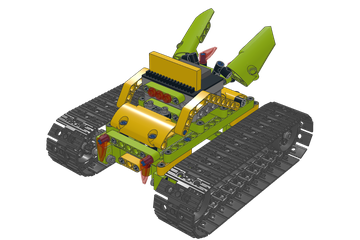
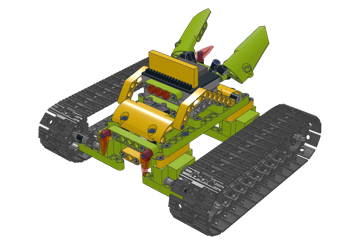
The geared tank redrawn so it can be built
The Geekservo's lugs have one pin hole each, across the servo. The custom
part had two more along the axis, drawn from the Kittenbot drawing's screw
holes, and the first geared tank ran its axle through one of them; the
user's servo showed the hole is not there. The same design also put the
16-tooth gears inside the track: the Building:bit links are 5 studs wide.

Now a 7-beam per side under the car's ends holds a pin with pin hole in
its outer hole; its ring is the bearing of a 7L axle with the 8-tooth
gear, and the sprocket sits past the ring, so the track starts outboard
of the gears. Same 31.6 LDU gear spacing. 19.6 cm wide over the tracks.
31 steps, 231 parts. The servo part loses the phantom holes (every
model's Studio zip changes); servos() loses its unused option.

Claude-Session: https://claude.ai/code/session_011hvyuWNUuaEFsj45paVWBn

Changed region(s): [[0.0917, 0.0292, 0.9167, 1.0]]

diff --git a/models/wukong_tank_4_motors_geared.py b/models/wukong_tank_4_motors_geared.py
@@ -1,79 +1,89 @@
 """Wukong tank with four servos, geared 2:1: our design, the four-servo Wukong tank
 (wukong_tank_4_motors.py: the Wukong mecanum racer of the ElecFreaks Wonder Rugged Kit on tracks
 from the Building:bit kit) with each servo geared up 2:1. The racer's body, servos and underside
-stay as its booklet builds them (steps 1-24), but for the outer lugs' lower pins and the two
-9-beams under the car's ends: the lug's lower hole crosses its vertical one, so the axle needs that
-pin's place (the servos still hang on the rails' end pins and the inner lugs' pins). A 16-tooth gear on each servo's output turns an
-8-tooth gear on a 6L axle that runs free in the lower round hole of the servo's outer lug (a half
-bush inside the lug and a bush outside hold it), and the sprocket sits on that axle: the tracks
-run twice as fast as the servos turn, with half the pull. The hole is 30 LDU along and 10 below
-the output, so the gears' axles are sqrt(30^2 + 10^2) = 31.6 LDU apart, 1.6 LDU (0.65 mm) more
-than LEGO's 30 for 16 and 8 teeth: the teeth mesh 2.5 LDU deep instead of 4.1. The sprockets sit
-18 LDU further out than the four-servo tank's (hub at 156, past the 8-tooth gear and a half
-bush), where their rims clear the 16-tooth gears; 31 links make each track as round as that
-tank's 27. World: front = +X, left = +Z, Y points down."""
+stay as its booklet builds them (steps 1-24), but for the two 9-beams under the car's ends, which
+become a 7-beam per side on the same lug pins, reaching four holes further out. A pin with pin
+hole stands in each 7-beam's outer hole, its ring the bearing of a 7L axle along the servo's axis:
+a 16-tooth gear on the servo's output turns the 8-tooth gear on that axle, and the sprocket sits
+on the axle past the ring, so the tracks run twice as fast as the servos turn, with half the pull.
+The ring is 30 LDU along and 10 below the output, so the gears' axles are sqrt(30^2 + 10^2) =
+31.6 LDU apart, 1.6 LDU (0.65 mm) more than LEGO's 30 for 16 and 8 teeth: the teeth mesh 2.5 LDU
+deep instead of 4.1. The Geekservo's lugs have one pin hole each, across the servo (the mounting
+pins' one), so nothing can hold an axle in them; and the Building:bit links are 5 studs wide, so
+the tracks start outboard of the gears: the sprocket hubs sit at 198, the car is 19.6 cm wide over
+the tracks (the racer 15.4). 31 links make each track as round as the four-servo tank's 27.
+World: front = +X, left = +Z, Y points down."""
 import numpy as np
 
 import ldr
 import wukong_mecanum as racer
 from ldr import R
 from tracks import Track
-from wonder_common import DBG, LBG
+from wonder_common import BLACK, DBG, LBG
 
 ACROSS = R(("y", 90))                                       # axle along Z
 OUT_X, OUT_Y = racer.SERVO_X + 10, racer.SERVO_Y            # the outputs sit 10 off the servos' centres
-LUG_X, LUG_Y = racer.SERVO_X + 40, racer.SERVO_Y + 10       # the outer lug's lower round hole along Z
+RING_X, RING_Y = racer.SERVO_X + 40, racer.SERVO_Y + 10     # the pin with pin hole on the 7-beam's outer hole
 OUTPUTS = ((-OUT_X, OUT_Y), (OUT_X, OUT_Y))                 # back, front
-WHEELS = ((-LUG_X, LUG_Y), (LUG_X, LUG_Y))                  # back, front: the sprockets on the lug axles
-GEAR_Z = racer.RAIL_Z + 46                                  # the gears' middle, the 16-tooth one against the servo (z = 116)
-WHEEL_Z = GEAR_Z + 30                                       # sprocket hub past the 8-tooth gear and a half bush
-# along each lug axle (left side, the right mirrored): a half bush against the lug's inner face
-# (z = 68), the lug, a bush against its outer face (z = 92), 4 LDU free, the 8-tooth gear, a half
-# bush, the sprocket, a half bush; the 6L axle from z = 57 to 177
-INNER_BUSH_Z, BUSH_Z, SPACER_Z, OUTER_BUSH_Z, AXLE_Z = 63, 102, 141, 171, 117
+WHEELS = ((-RING_X, RING_Y), (RING_X, RING_Y))              # back, front: the sprockets on the ring axles
+BEAM_Z = racer.RAIL_Z + 20                                  # the 7-beams' middles: holes from 40 to 160, the lug pin in 80
+RING_Z = racer.RAIL_Z + 80                                  # the 7-beams' outer holes (z = 160)
+GEAR_Z = racer.RAIL_Z + 46                                  # the gears' middle, the 16-tooth one against the servo (z = 126)
+WHEEL_Z = 198                                               # sprocket hub past the ring and a half bush; the links start at 150
+# along each ring axle (left side, the right mirrored): a bush clear of the lug (96..116), the
+# 8-tooth gear (116..136), a half bush, 5 free, the ring (151..169), a half bush, the sprocket,
+# a half bush; the 7L axle from z = 96 to 236
+BUSH_Z, SPACER_Z, OUTER_SPACER_Z, OUTER_BUSH_Z, AXLE_Z = 106, 141, 174, 221.5, 166
 TRACK = Track(WHEELS, 31)
-# the racer's cameras for its steps; the gears from the left, low, the sprockets and tracks from
-# the front left, the board as the four-servo tank's
-VIEW = dict(racer.VIEW, step_views={**racer.VIEW["step_views"], 25: (160, 8), 26: (150, 10), 27: (140, 15),
-                                    28: (125, 25), 29: (130, 30), 30: (140, 35)})
+# the racer's cameras for its steps; the beams and rings from the front left, low, the gears from
+# the left, the sprockets and tracks from the front left, the board as the four-servo tank's
+VIEW = dict(racer.VIEW, step_views={**racer.VIEW["step_views"], 25: (150, 12), 26: (160, 8), 27: (150, 10),
+                                    28: (135, 20), 29: (130, 30), 30: (140, 35)})
 
 
 def mesh(fx):
     """The gears' turns about Z at the end fx (-1 back, 1 front): a tooth of the 8-tooth gear in a
     gap of the 16-tooth gear on the line between their axles (94925: gaps at 0 degrees and every
     22.5; 10928: teeth at 0 degrees and every 45)."""
-    a = np.degrees(np.arctan2(LUG_Y - OUT_Y, fx * (LUG_X - OUT_X)))
+    a = np.degrees(np.arctan2(RING_Y - OUT_Y, fx * (RING_X - OUT_X)))
     return R(("z", a % 22.5)), R(("z", (a + 180) % 45))
 
 
 def build():
     m = ldr.Model("wukong-tank-4servo-geared")
     racer.body(m)
-    racer.servos(m, outer_pins=False)
+    racer.servos(m)
     racer.underside(m, outer_beams=False)
-    # 25: a 16-tooth gear pushed all the way onto each servo's output
+    # 25: (x4) a 7-beam under each end of the car on the outer lug's pin, its outer end past the
+    #     servo; a pin with pin hole down in its outer hole, the hole along the car's axles
+    for fx in (-1, 1):
+        for s in (1, -1):
+            m.add("32524.dat", racer.LIME, (fx * RING_X, 80, BEAM_Z * s))
+            m.add("15100.dat", BLACK, (fx * RING_X, RING_Y, RING_Z * s), racer.PIN_HOLE_ON_Z_DOWN)
+    m.step()
+    # 26: a 16-tooth gear pushed all the way onto each servo's output
     for x, y in OUTPUTS:
         for s in (1, -1):
             m.add("94925.dat", LBG, (x, y, GEAR_Z * s), mesh(np.sign(x))[0])
     m.step()
-    # 26: (x4) a 6L axle through the lower round hole of the servo's outer lug, a half bush on it
-    #     inside the lug, a bush outside; the 8-tooth gear in the 16-tooth gear's teeth, a half bush
+    # 27: (x4) a 7L axle through the ring: inside it a half bush against the ring, the 8-tooth gear
+    #     in the 16-tooth gear's teeth and a bush; outside it a half bush
     for x, y in WHEELS:
         turn = mesh(np.sign(x))[1]                          # the axle's cross as the 8-tooth gear's hole
         for s in (1, -1):
-            m.add("3706.dat", LBG, (x, y, AXLE_Z * s), turn @ ACROSS)
-            m.add("4265c.dat", LBG, (x, y, INNER_BUSH_Z * s), turn)
+            m.add("44294.dat", LBG, (x, y, AXLE_Z * s), turn @ ACROSS)
             m.add("3713.dat", LBG, (x, y, BUSH_Z * s), turn)
             m.add("10928.dat", DBG, (x, y, GEAR_Z * s), turn)
             m.add("4265c.dat", LBG, (x, y, SPACER_Z * s), turn)
+            m.add("4265c.dat", LBG, (x, y, OUTER_SPACER_Z * s), turn)
     m.step()
-    # 27: a sprocket on each lug axle, a half bush outside it
+    # 28: a sprocket on each axle against the half bush, a half bush outside it
     for x, y in WHEELS:
         for s in (1, -1):
             m.add("57519.dat", DBG, (x, y, WHEEL_Z * s), TRACK.sprocket_turn((x, y)))
             m.add("4265c.dat", LBG, (x, y, OUTER_BUSH_Z * s), mesh(np.sign(x))[1])
     m.step()
-    # 28: (x2) 31 links to a track, round each side's two sprockets
+    # 29: (x2) 31 links to a track, round each side's two sprockets
     for s in (1, -1):
         TRACK.links(m, DBG, WHEEL_Z * s)
     m.step()

diff --git a/models/wukong_mecanum.py b/models/wukong_mecanum.py
@@ -232,9 +232,8 @@ def body(m):
     m.step()
 
 
-def servos(m, ends=(-1, 1), outer_pins=True):
-    """Step 22: the servos at the given ends of the car (-1 back, 1 front). outer_pins=False leaves
-    the outer lugs' lower pins out (the geared tank's axles run through those lugs)."""
+def servos(m, ends=(-1, 1)):
+    """Step 22: the servos at the given ends of the car (-1 back, 1 front)."""
     # 22 (booklet 25, upside down): the servos on the rails' end pins, outputs out; a pin in
     #     each lug's other end
     for fx in ends:
@@ -242,14 +241,14 @@ def servos(m, ends=(-1, 1), outer_pins=True):
             m.add("geekedu-ef-geekservo-360.dat", LIME, (fx * SERVO_X, SERVO_Y, side * RAIL_Z), servo(fx, side))
     for fx in ends:
         for side in (-1, 1):
-            for x in (80, 160) if outer_pins else (80,):
+            for x in (80, 160):
                 m.add("2780.dat", BLACK, (fx * x, 70, side * RAIL_Z), PIN_DOWN)
     m.step()
 
 
 def underside(m, ends=(-1, 1), outer_beams=True):
     """Steps 23-24: the beams under the car, across only at the ends that have servos.
-    outer_beams=False leaves out the two at the car's ends (on the outer lugs' lower pins)."""
+    outer_beams=False leaves out the two at the car's ends (the geared tank puts a 7-beam per side there)."""
     # 23 (booklet 26): two 15-beams under the middle on the hood's and the back panel's cross
     #     block pins, a pin down in each one's holes 4 and 12
     for z in (-20, 20):

diff --git a/builder/customparts.py b/builder/customparts.py
@@ -31,16 +31,16 @@ def _cross_axle(cx, top, height, cz, color=15):
 
 def _geekservo(output_color=72):
     # Kittenbot drawing: body 24 x 28.8 x 16 mm (x, y, z), 8 mm lugs at both ends in the middle
-    # 9.6 mm band, each with a pin hole across (z) and two down (8 mm apart), 32 mm apart; the
-    # cross axle output on top, 4 mm off centre (origin = body centre)
+    # 9.6 mm band, 32 mm apart, each with ONE pin hole, across (z): the drawing's two small holes
+    # down through each lug are screw holes, not pin holes (the real part, 2026-10-30: a design
+    # that ran an axle through them could not be built); the cross axle output on top, 4 mm off
+    # centre (origin = body centre)
     out = (_box(-12, -14.4, -8, 12, 14.4, 8)
            + _box(-20, -4.8, -8, -12, 4.8, 8)
            + _box(12, -4.8, -8, 20, 4.8, 8)
            + _cross_axle(4, -14.4, 5.6, 0, output_color))
     for x in (-40, 40):
         out += _disc((x, 0, -20.2), "z", 6) + _disc((x, 0, 20.2), "z", 6)
-        for z in (-10, 10):
-            out += _disc((x, -12.2, z), "y", 6) + _disc((x, 12.2, z), "y", 6)
     return out + _disc((10, -36.2, 0), "y", 8, output_color)
 
 

diff --git a/README.md b/README.md
@@ -10,7 +10,7 @@ for the phone joystick.
 | <img src="docs/images/wukong-mecanum.png" width="180" alt="Wukong mecanum racer"> | **wukong-mecanum**: the mecanum racer; drives, turns on the spot and slides sideways | 4 Geekservo 360° servos: S0 left front, S1 left rear, S2 right front, S3 right rear | [27, online](https://legorace.geekedu.eu/en/models/wukong-mecanum-racer/) · [PDF](https://github.com/cznewt/gedu-brick-race/releases/latest/download/wukong-mecanum-instructions.pdf) | 135 |
 | <img src="docs/images/wukong-tank-2-motors.png" width="180" alt="Wukong tank with two motors"> | **wukong-tank-2-motors**: the racer's body on tracks, driven at the back | 2 Geekservo 360° servos: S0 left, S1 right | [30, online](https://legorace.geekedu.eu/en/models/wukong-tank-2servo/) · [PDF](https://github.com/cznewt/gedu-brick-race/releases/latest/download/wukong-tank-2-motors-instructions.pdf) | 187 |
 | <img src="docs/images/wukong-tank-4-motors.png" width="180" alt="Wukong tank with four motors"> | **wukong-tank-4-motors**: the racer on tracks, all four motors driving | 4 Geekservo 360° servos: S0 left front, S1 left rear, S2 right front, S3 right rear | [28, online](https://legorace.geekedu.eu/en/models/wukong-tank-4servo/) · [PDF](https://github.com/cznewt/gedu-brick-race/releases/latest/download/wukong-tank-4-motors-instructions.pdf) | 189 |
-| <img src="docs/images/wukong-tank-4-motors-geared.png" width="180" alt="Wukong tank with four motors, geared 2:1"> | **wukong-tank-4-motors-geared**: the four-motor tank geared up 2:1 (a 16-tooth gear on each servo turns an 8-tooth one on the sprocket's axle): about the mecanum car's speed, half the pull. A prototype: the gears mesh 0.65 mm wider than LEGO's standard spacing. The gears go in at steps 25-27 | 4 Geekservo 360° servos: S0 left front, S1 left rear, S2 right front, S3 right rear | [30, online](https://legorace.geekedu.eu/en/models/wukong-tank-4servo-geared/) · [PDF](https://github.com/cznewt/gedu-brick-race/releases/latest/download/wukong-tank-4-motors-geared-instructions.pdf) | 219 |
+| <img src="docs/images/wukong-tank-4-motors-geared.png" width="180" alt="Wukong tank with four motors, geared 2:1"> | **wukong-tank-4-motors-geared**: the four-motor tank geared up 2:1: a 16-tooth gear on each servo turns an 8-tooth one on an axle that a pin with pin hole holds, on a 7-beam under the car's end; the sprocket sits on that axle. About the mecanum car's speed, half the pull. A prototype: the gears mesh 0.65 mm wider than LEGO's standard spacing, and the car is 19.6 cm wide over the tracks (the Building:bit links are 5 studs wide, so they start outboard of the gears). The gears go in at steps 25-28 | 4 Geekservo 360° servos: S0 left front, S1 left rear, S2 right front, S3 right rear | [30, online](https://legorace.geekedu.eu/en/models/wukong-tank-4servo-geared/) · [PDF](https://github.com/cznewt/gedu-brick-race/releases/latest/download/wukong-tank-4-motors-geared-instructions.pdf) | 219 |
 
 ## Download
 

diff --git a/AGENTS.md b/AGENTS.md
@@ -36,9 +36,11 @@ each one into `dist/<slug>/`:
   - `source`;
   - optionally `booklet_parts`, which `build.py` checks the parts against.
 - The tanks import `wukong_mecanum` for the racer's body. A change there changes every model:
-  rebuild them all. Its `servos()` and `underside()` take options (the geared tank leaves the
-  outer lugs' lower pins and the end 9-beams out); their defaults must keep the other models as
-  they are.
+  rebuild them all. Its `underside()` takes an option (the geared tank leaves the end 9-beams out
+  and puts a 7-beam per side there); the default must keep the other models as they are.
+- The Geekservo's lugs have one pin hole each, across the servo. Do not design around any other
+  hole of a custom part unless someone checked the physical part; and the Building:bit links are
+  5 studs wide, so gears next to a sprocket must sit outboard of the track band.
 
 ## Shared with the GeekEdu site
 
